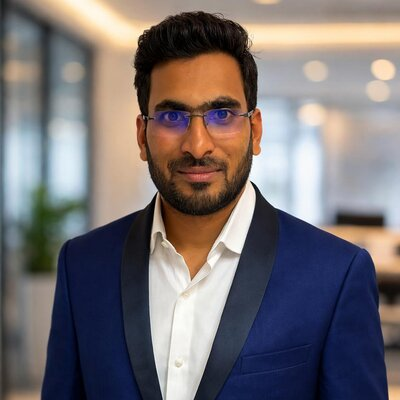
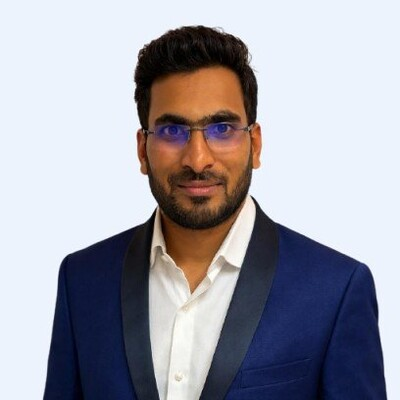
7 partner photos

diff --git a/about/index.html b/about/index.html
@@ -304,7 +304,7 @@
             <!-- CA Dhananjay Walke -->
             <div class="team-card anim">
                 <div class="team-photo">
-                    <span class="team-photo-initials">DW</span>
+                    <img src="/assets/team/dhananjay-walke.jpg" alt="CA Dhananjay Walke">
                     <span class="team-photo-badge team-photo-badge--partner">Partner</span>
                 </div>
                 <div class="team-info">
@@ -343,7 +343,7 @@
             <!-- CA Priyank Vaidya -->
             <div class="team-card anim">
                 <div class="team-photo">
-                    <span class="team-photo-initials">PV</span>
+                    <img src="/assets/team/priyank-vaidya.jpg" alt="CA Priyank Vaidya">
                     <span class="team-photo-badge team-photo-badge--partner">Partner</span>
                 </div>
                 <div class="team-info">
@@ -363,7 +363,7 @@
             <!-- CA Pradnya Bamb-Chhajed -->
             <div class="team-card anim">
                 <div class="team-photo">
-                    <span class="team-photo-initials">PB</span>
+                    <img src="/assets/team/pradnya-bamb.jpg" alt="CA Pradnya Bamb-Chhajed">
                     <span class="team-photo-badge team-photo-badge--partner">Partner</span>
                 </div>
                 <div class="team-info">
@@ -424,7 +424,7 @@
             <!-- CA Rohit Gyanchandani -->
             <div class="team-card anim">
                 <div class="team-photo">
-                    <span class="team-photo-initials">RG</span>
+                    <img src="/assets/team/rohit-gyanchandani.jpg" alt="CA Rohit Gyanchandani">
                     <span class="team-photo-badge team-photo-badge--lead">Associate</span>
                 </div>
                 <div class="team-info">
